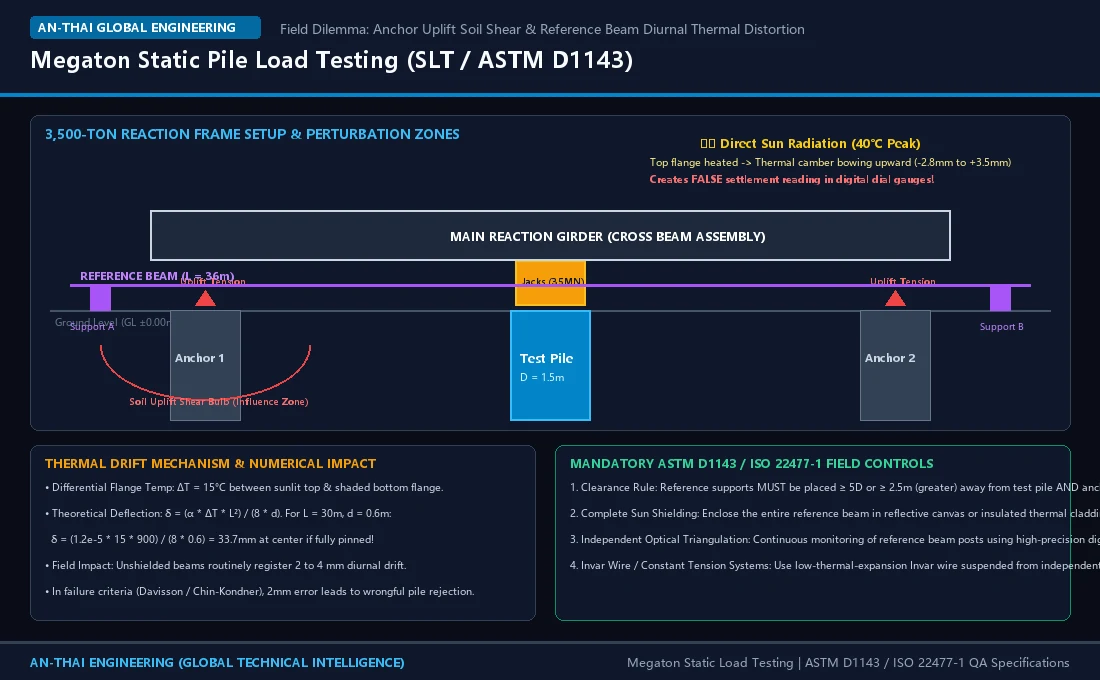
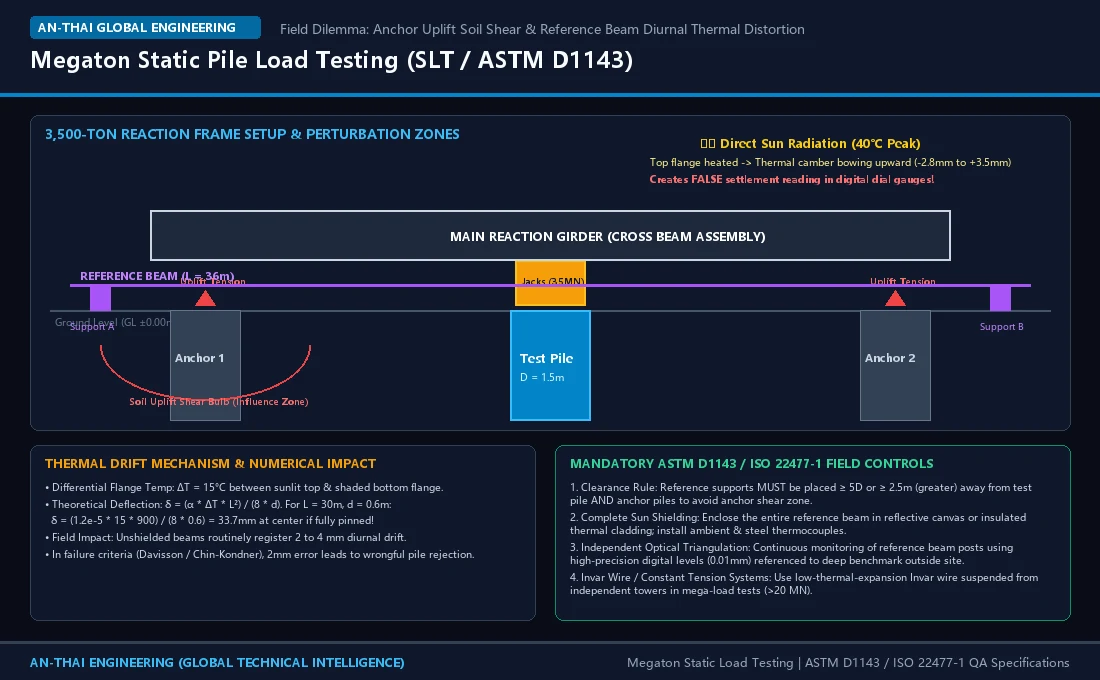
fix(editorial): wrap diagram annotations and align LINE engineering contact route

Changed region(s): [[0.5255, 0.7103, 1.0, 0.8956], [0.0309, 0.7412, 0.4327, 0.8338], [0.0618, 0.8647, 0.4327, 0.8956]]

diff --git a/scripts/generate_global_inspection_visuals.py b/scripts/generate_global_inspection_visuals.py
@@ -50,6 +50,35 @@ def draw_footer(draw, width, height, note="Standards: ASTM | ISO | EN Eurocode |
 def make_card(draw, box, fill="#1e293b", outline="#334155", radius=8, width=1):
     draw.rounded_rectangle(box, radius=radius, fill=fill, outline=outline, width=width)
 
+def draw_wrapped_text(draw, text, pos, max_width, font, fill, line_spacing=3):
+    words = text.split(" ")
+    lines = []
+    current_line = []
+    for word in words:
+        test_line = " ".join(current_line + [word])
+        bbox = draw.textbbox((0, 0), test_line, font=font)
+        if bbox[2] - bbox[0] <= max_width:
+            current_line.append(word)
+        else:
+            if current_line:
+                lines.append(" ".join(current_line))
+                current_line = [word]
+            else:
+                lines.append(word)
+                current_line = []
+    if current_line:
+        lines.append(" ".join(current_line))
+
+    x, y = pos
+    total_height = 0
+    for line in lines:
+        draw.text((x, y), line, font=font, fill=fill)
+        bbox = draw.textbbox((0, 0), line, font=font)
+        h = (bbox[3] - bbox[1]) + line_spacing
+        y += h
+        total_height += h
+    return total_height
+
 # ==========================================================
 # 1. Dual-Core Architecture Diagram
 # ==========================================================
@@ -221,8 +250,8 @@ def generate_pit_impedance_shadowing():
     ]
     ny = 445
     for note in notes:
-        draw.text((435, ny), note, font=get_font(10, bold=False), fill="#cbd5e1")
-        ny += 38
+        h = draw_wrapped_text(draw, note, (435, ny), 595, get_font(9.5, bold=False), "#cbd5e1", line_spacing=3)
+        ny += h + 6
 
     draw_footer(draw, W, H, "Low-Strain Wave Mechanics | ASTM D5882 / EN ISO 22477-4 Compliance Guide")
     out_path = ASSETS_DIR / "pit-impedance-shadowing-defect-masking.webp"
@@ -306,8 +335,8 @@ def generate_megaton_slt_diagram():
     ]
     ty = 480
     for l in t_lines:
-        draw.text((45, ty), l, font=get_font(10, bold=False), fill="#cbd5e1")
-        ty += 26
+        h = draw_wrapped_text(draw, l, (45, ty), 470, get_font(9.5, bold=False), "#cbd5e1", line_spacing=3)
+        ty += h + 4
 
     make_card(draw, [555, 445, 1070, 620], fill="#0f172a", outline="#059669")
     draw.text((570, 455), "MANDATORY ASTM D1143 / ISO 22477-1 FIELD CONTROLS", font=get_font(12, bold=True), fill="#34d399")
@@ -319,8 +348,8 @@ def generate_megaton_slt_diagram():
     ]
     my = 480
     for l in m_lines:
-        draw.text((570, my), l, font=get_font(10, bold=False), fill="#cbd5e1")
-        my += 26
+        h = draw_wrapped_text(draw, l, (570, my), 480, get_font(9.5, bold=False), "#cbd5e1", line_spacing=3)
+        my += h + 4
 
     draw_footer(draw, W, H, "Megaton Static Load Testing | ASTM D1143 / ISO 22477-1 QA Specifications")
     out_path = ASSETS_DIR / "megaton-slt-anchor-thermal-distortion.webp"
@@ -369,9 +398,15 @@ def generate_paut_weld_flaw_diagram():
     # Technical Specs Box Below
     make_card(draw, [45, 520, 505, 605], fill="#1e293b", outline="#475569")
     draw.text((55, 528), "ULTRASONIC ACOUSTIC PRINCIPLE (声学反射机理)", font=get_font(10, bold=True), fill="#38bdf8")
-    draw.text((55, 548), "• Sidewall LOF is planar: Max reflection occurs when beam is perpendicular to bevel angle.", font=get_font(9, bold=False), fill="#cbd5e1")
-    draw.text((55, 568), "• Root bead produces specular geometric corner trap reflection at 0.5 & 1.0 skip.", font=get_font(9, bold=False), fill="#cbd5e1")
-    draw.text((55, 588), "• Misinterpreting geometric echoes causes unnecessary gouging of sound welds.", font=get_font(9, bold=False), fill="#fca5a5")
+    p_specs = [
+        "• Sidewall LOF is planar: Max reflection occurs when beam is perpendicular to bevel angle.",
+        "• Root bead produces specular geometric corner trap reflection at 0.5 & 1.0 skip.",
+        "• Misinterpreting geometric echoes causes unnecessary gouging of sound welds."
+    ]
+    sy = 546
+    for s in p_specs:
+        h = draw_wrapped_text(draw, s, (55, sy), 440, get_font(9, bold=False), "#fca5a5" if "gouging" in s else "#cbd5e1", line_spacing=2)
+        sy += h + 3
 
     # Right: S-Scan & Discrimination Criteria
     make_card(draw, [540, 115, 1070, 620], fill="#0f172a", outline="#334155")
@@ -407,10 +442,10 @@ def generate_paut_weld_flaw_diagram():
         "3. Complementary TOFD (Diffraction): Deploy Time-of-Flight Diffraction (ISO 16828) across suspect zones. Planar flaws generate distinctive top & bottom tip-diffracted signals.",
         "4. ASNT / ISO 9712 Level III Authority: Automated threshold gating must never replace independent signal interpretation by certified Level III personnel on fatigue-critical joints."
     ]
-    py = 430
+    py = 428
     for l in p_lines:
-        draw.text((570, py), l, font=get_font(9, bold=False), fill="#cbd5e1")
-        py += 42
+        h = draw_wrapped_text(draw, l, (570, py), 470, get_font(9, bold=False), "#cbd5e1", line_spacing=3)
+        py += h + 4
 
     draw_footer(draw, W, H, "Advanced Steel NDT | AWS D1.1 / ISO 13588 & ISO 16828 Compliance")
     out_path = ASSETS_DIR / "paut-weld-flaw-vs-geometric-echo.webp"

diff --git a/docs/editorial/AN-THAI-GLOBAL-FOUNDATION-FULL-SPECTRUM-INSPECTION-MANUAL.md b/docs/editorial/AN-THAI-GLOBAL-FOUNDATION-FULL-SPECTRUM-INSPECTION-MANUAL.md
@@ -228,8 +228,8 @@ When submitting deep foundation or engineering testing requirements to AN-THAI E
 
 **Direct AN-THAI Engineering Consultation Routes:**
 - **Online Engineering Enquiry Portal:** [https://an-thai.com/contact.html?type=engineering#enquiry-form](https://an-thai.com/contact.html?type=engineering#enquiry-form)
-- **Technical Division Direct Email:** `info@an-thai.com`
-- **Official LINE Technical Channel:** `@anthai` (Direct technical support for Southeast Asia projects)
+- **Primary Technical Email:** `anthaicheng@gmail.com` | **Domain Email:** `info@an-thai.com`
+- **Official LINE Engineering Channel:** [LINE ID: rachada2018](https://line.me/ti/p/~rachada2018) (Direct engineering enquiries for Thailand and Southeast Asia; search ID `rachada2018` in the LINE app if the direct link does not open)
 
 ---
 *AN-THAI Engineering Company Limited — Global Deep Foundations & Full-Spectrum Engineering Inspection Intelligence.*

diff --git a/docs/editorial/AN-THAI-GLOBAL-FOUNDATION-FULL-SPECTRUM-INSPECTION-MANUAL-ZH.md b/docs/editorial/AN-THAI-GLOBAL-FOUNDATION-FULL-SPECTRUM-INSPECTION-MANUAL-ZH.md
@@ -232,8 +232,8 @@ AN-THAI 遵循最高等级的国际工程法证合规标准：
 
 **AN-THAI 官方技术服务通道：**
 - **工程咨询系统入口：** [https://an-thai.com/contact.html?type=engineering#enquiry-form](https://an-thai.com/contact.html?type=engineering#enquiry-form)
-- **工程技术部专用邮箱：** `info@an-thai.com`
-- **东南亚及泰国本地 LINE 技术通道：** `@anthai`
+- **主要工程邮箱：** `anthaicheng@gmail.com` | **企业域名邮箱：** `info@an-thai.com`
+- **东南亚及泰国本地 LINE 技术通道：** [LINE ID: rachada2018](https://line.me/ti/p/~rachada2018)（工程对接专用通道；若链接无法直接唤起 App，请在 LINE 内搜索 ID：`rachada2018`）
 
 ---
 *AN-THAI Engineering Company Limited — 国际领先的深基础工程与全领域工程检测实战智库*
